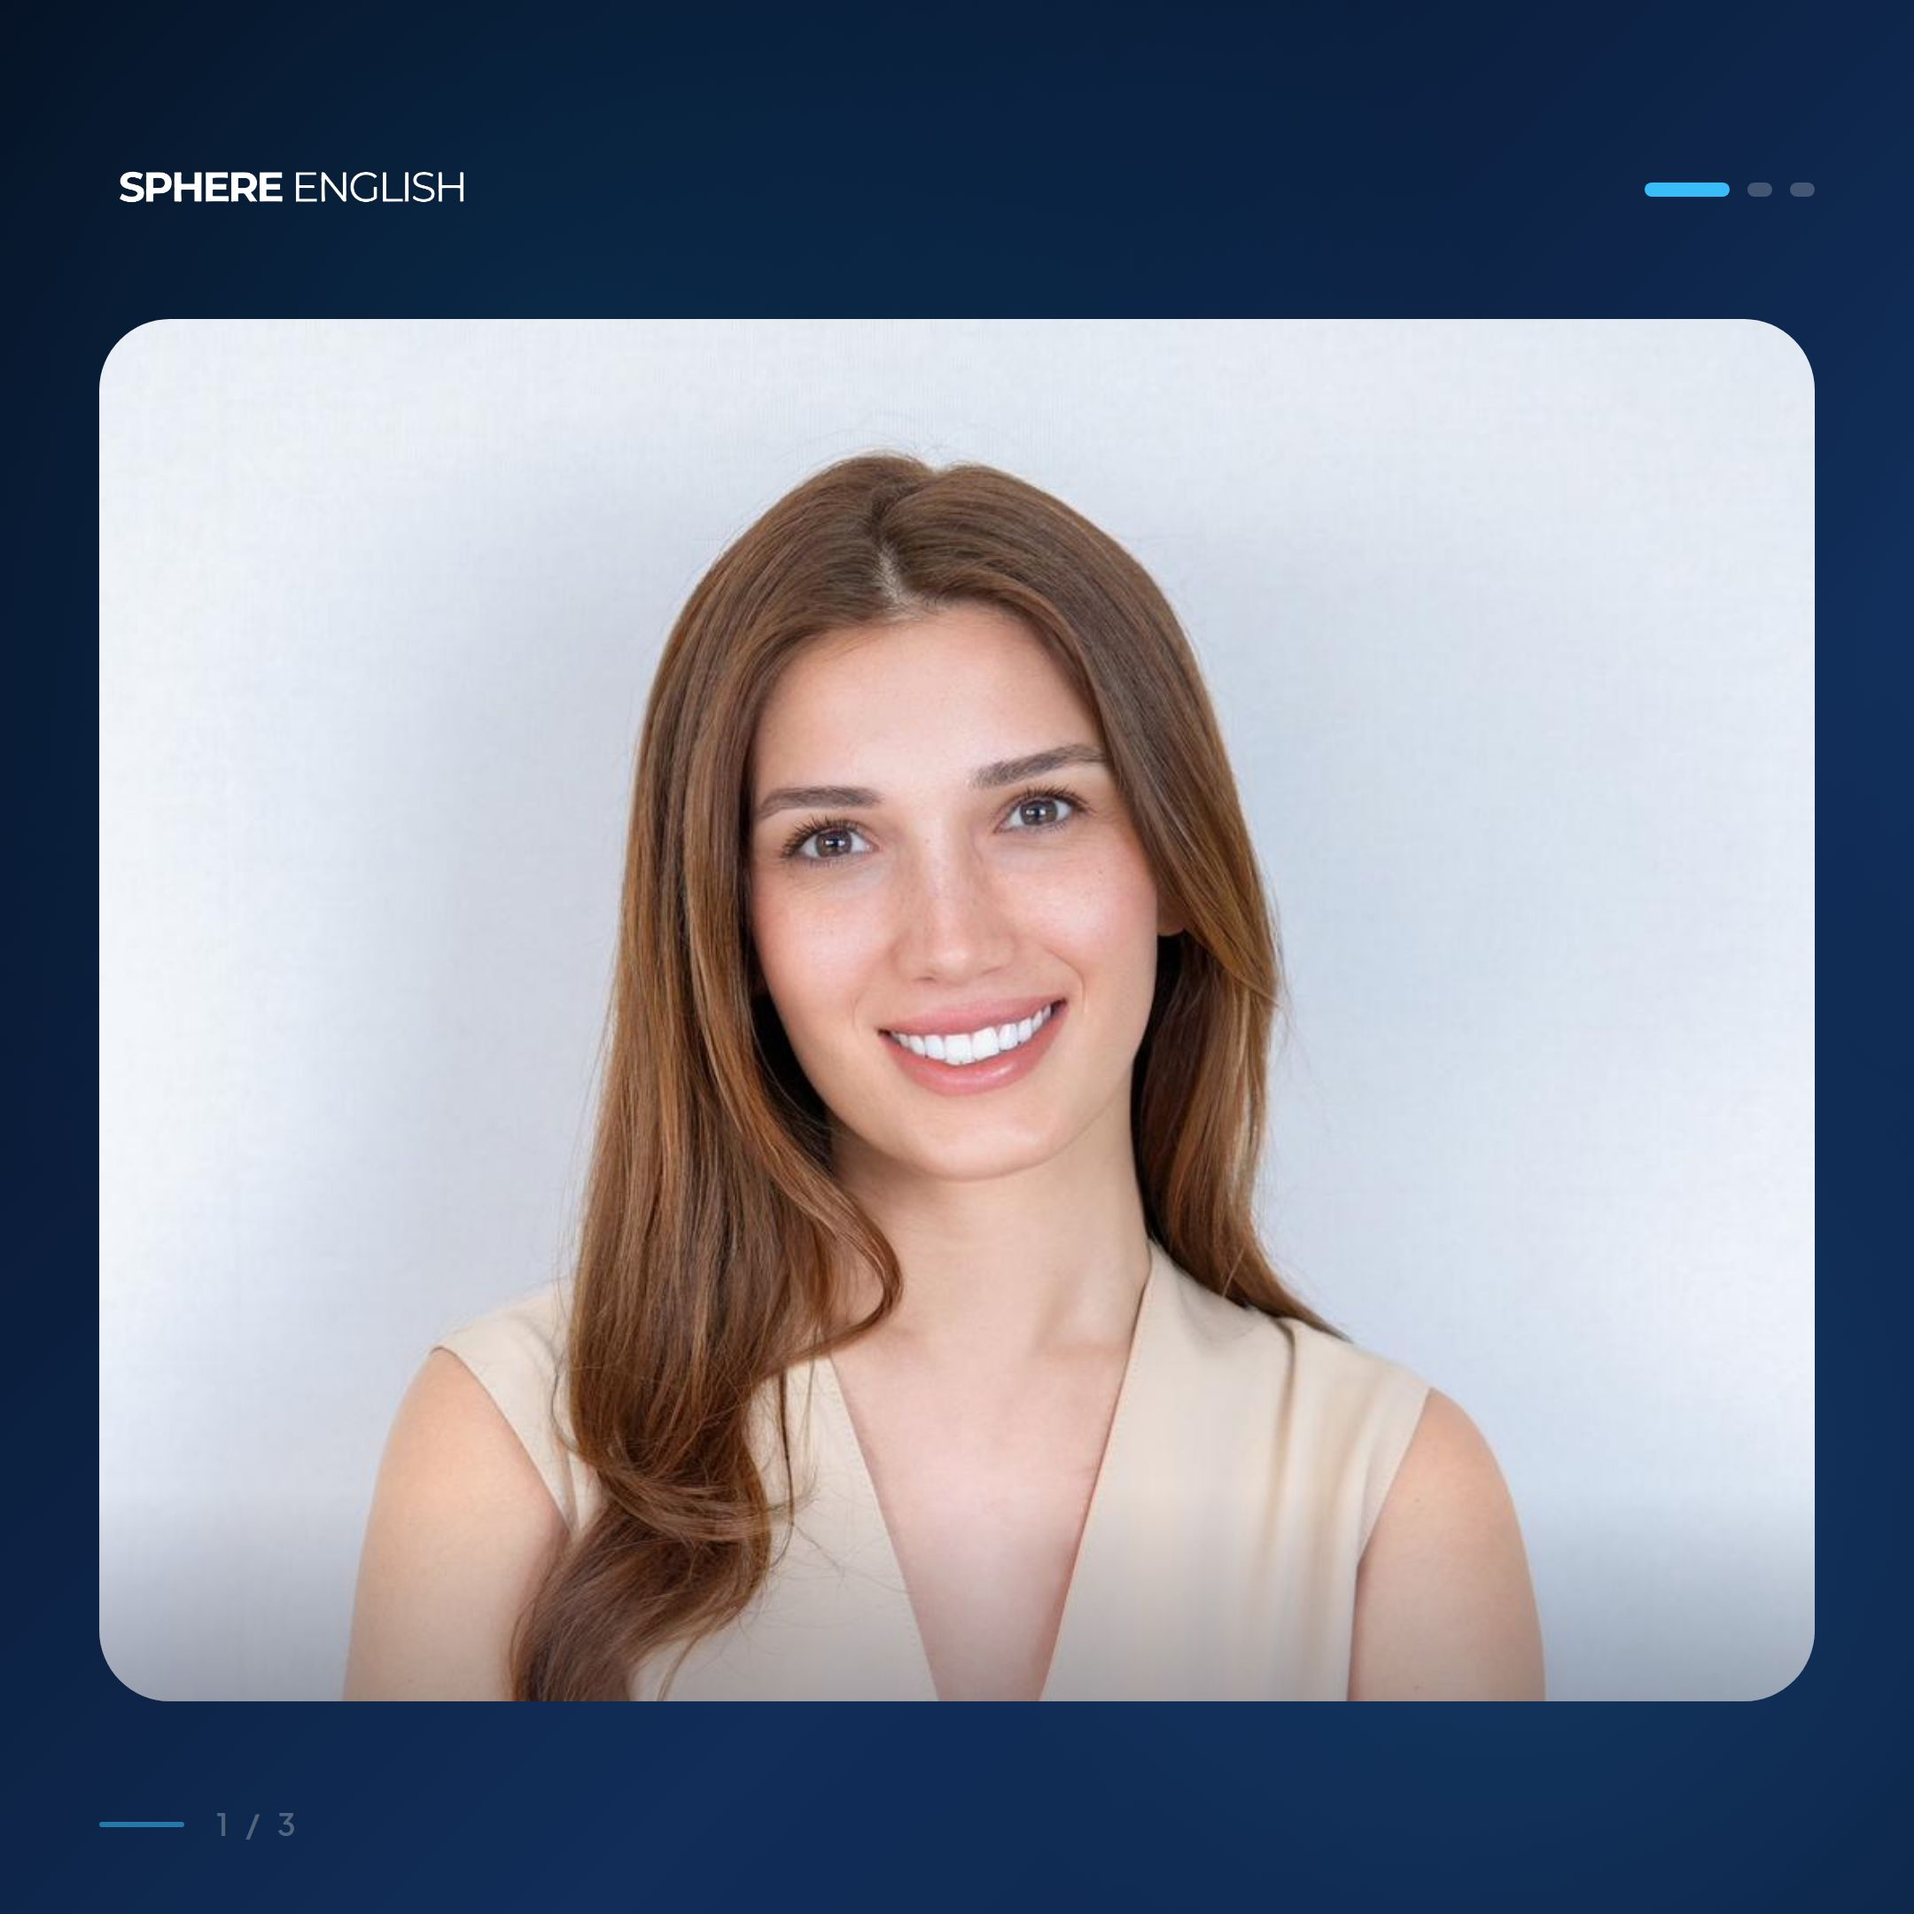
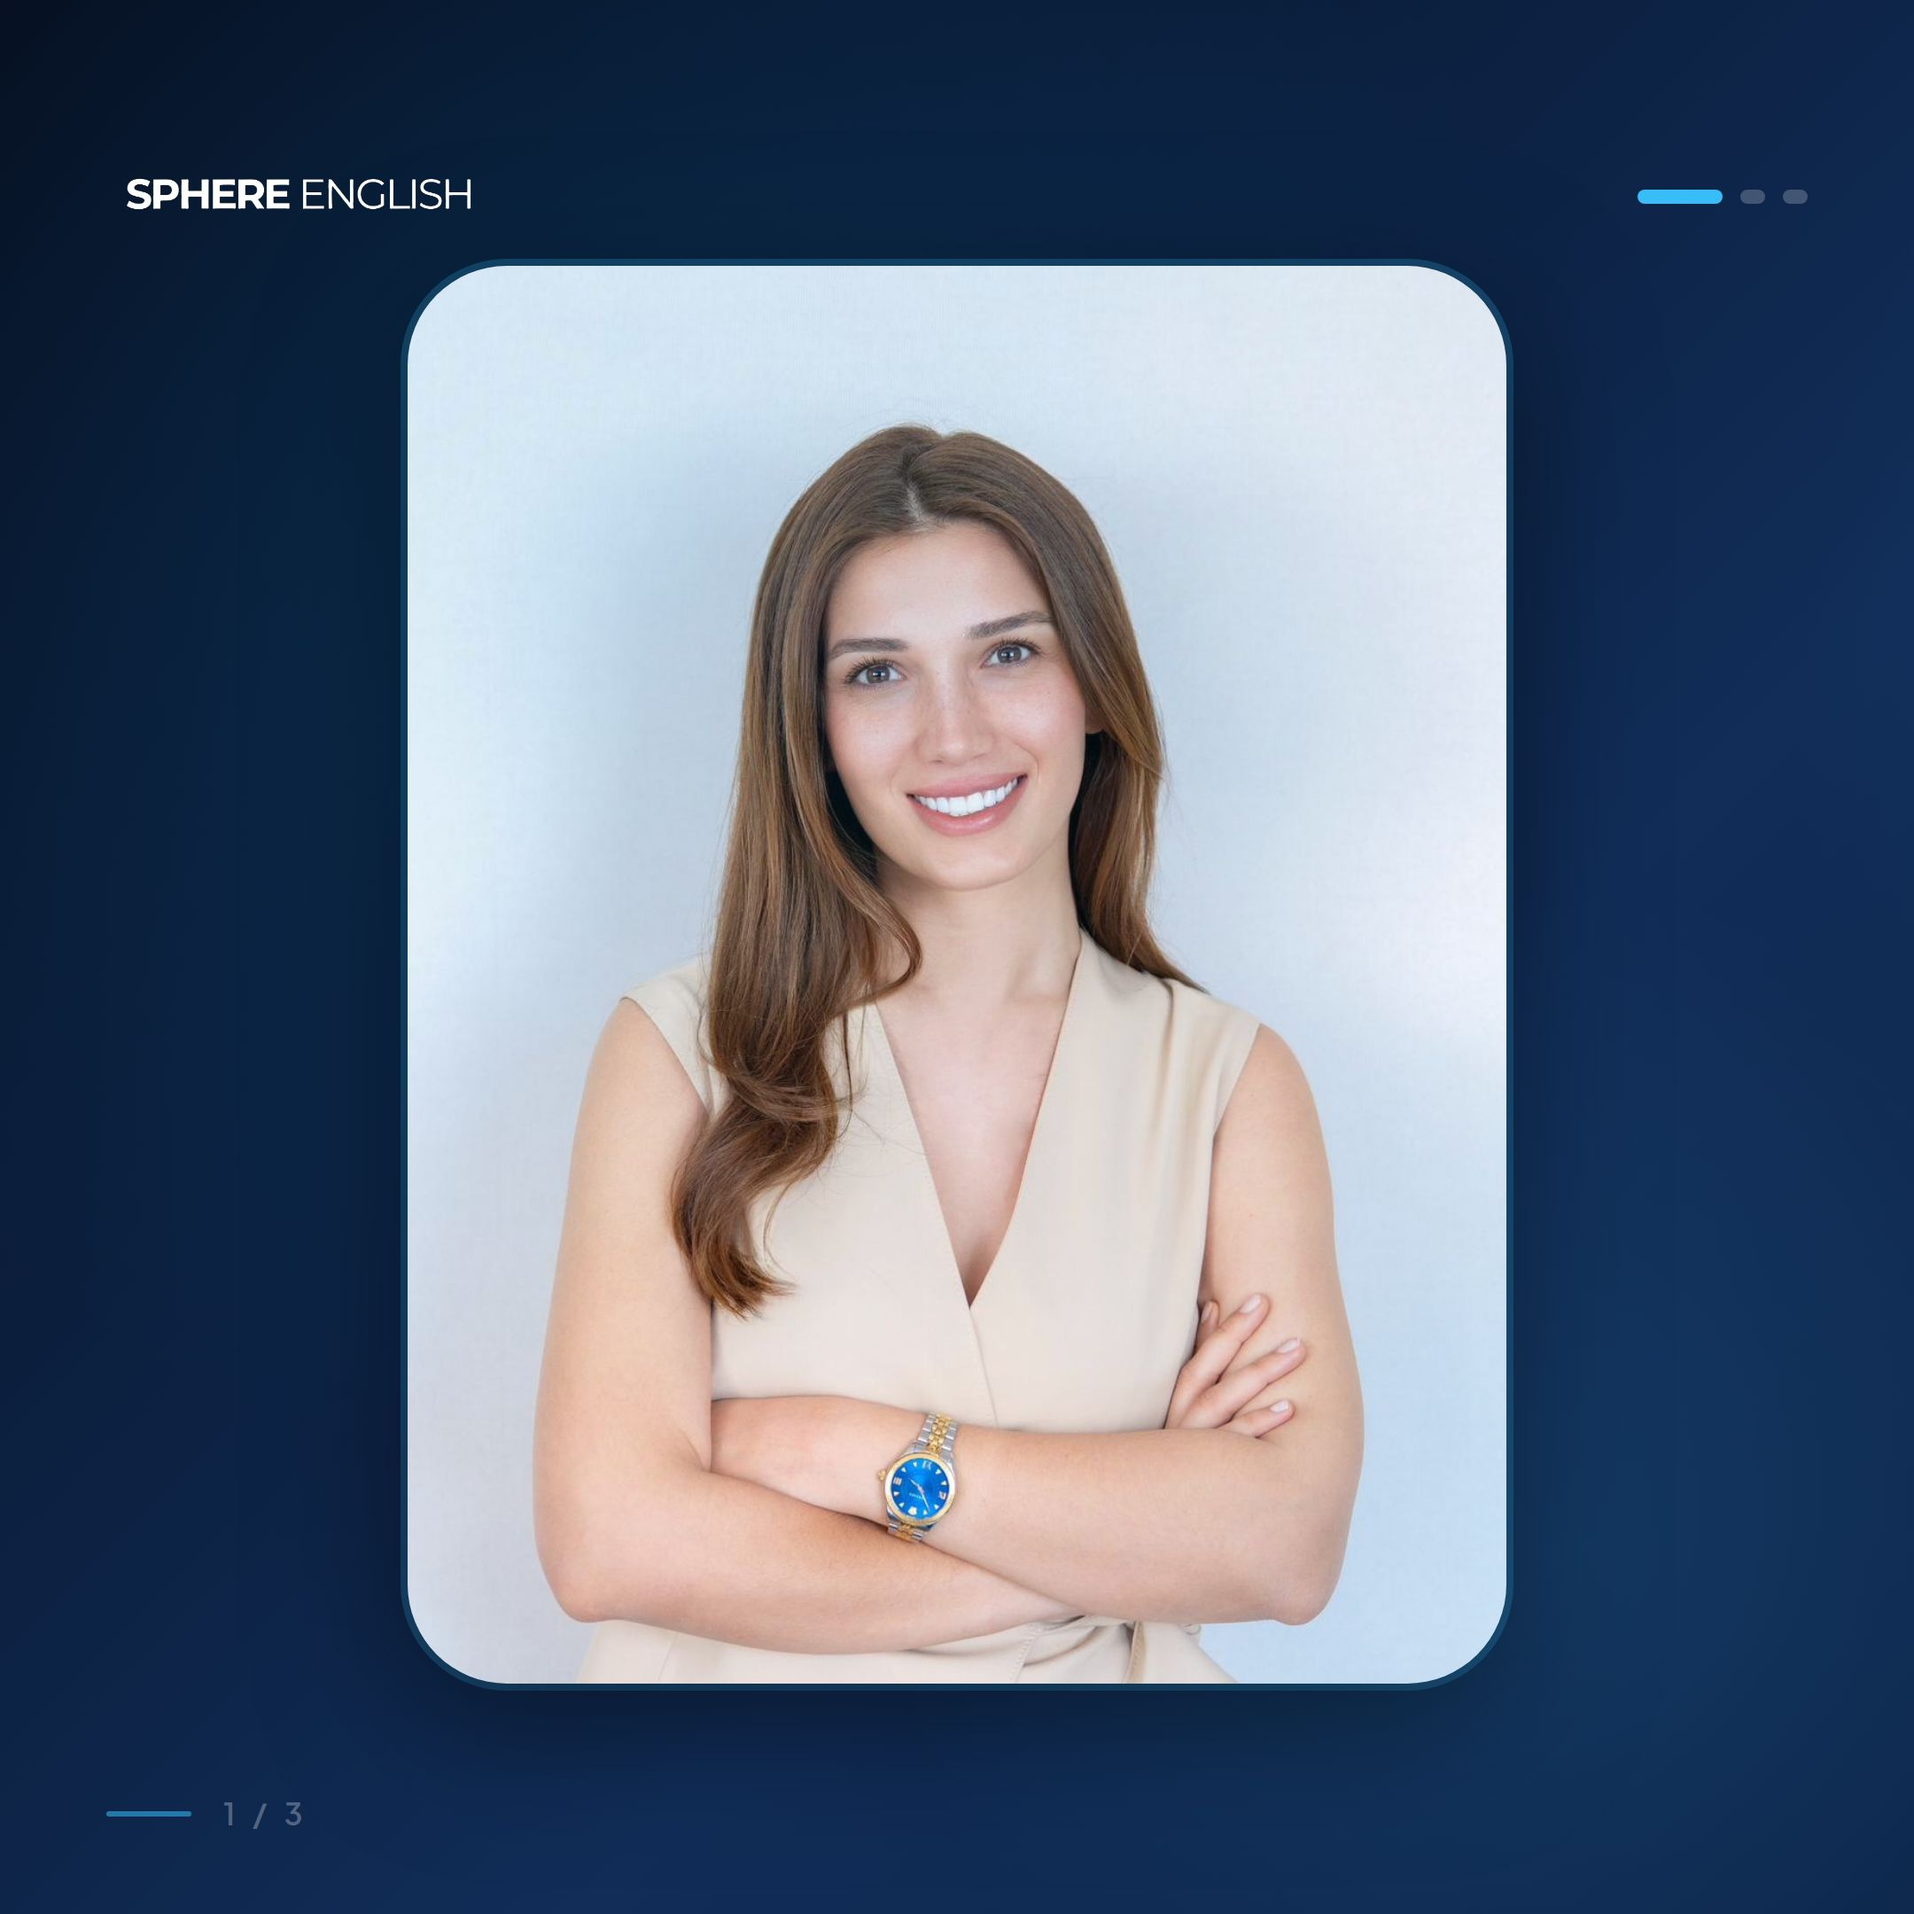
Update image framing to display portraits in rounded vertical frames
Modify the PhotoPanel component to use a portrait aspect ratio with rounded corners and object-fit cover for image display.

Replit-Commit-Author: Agent
Replit-Commit-Session-Id: 7828208e-226c-43ef-9a3e-875997ce7956
Replit-Commit-Checkpoint-Type: full_checkpoint
Replit-Commit-Event-Id: 37176d0c-0727-4ea3-82cc-8dd7bf4da281
Replit-Commit-Screenshot-Url: https://storage.googleapis.com/screenshot-production-us-central1/f780e6cf-cd3b-477f-8b05-3e4b163e7069/7828208e-226c-43ef-9a3e-875997ce7956/cZ8Hnck
Replit-Helium-Checkpoint-Created: true

diff --git a/artifacts/mockup-sandbox/src/components/mockups/instagram-post/FoundersPost.tsx b/artifacts/mockup-sandbox/src/components/mockups/instagram-post/FoundersPost.tsx
@@ -47,30 +47,37 @@ const Avatar = ({ letter, color }: { letter: string; color: string }) => (
 
 /* ── Photo card panel (for Didem & Merve) ── */
 const PhotoPanel = ({ src, alt, dots }: { src: string; alt: string; dots: number }) => {
-  const PADX = px(56);
-  const PADY = px(52);
+  const PADX = px(60);
+  const PADY = px(56);
+
+  /* Portrait card boyutu: dikey, oval köşeli */
+  const CARD_W = px(620);
+  const CARD_H = px(800);
+
   return (
     <div style={{
       width:px(W), height:px(W), flexShrink:0,
       background: BG,
       position:"relative",
       overflow:"hidden",
+      display:"flex",
+      flexDirection:"column",
+      alignItems:"center",
+      justifyContent:"center",
     }}>
       {/* Dekoratif orbs */}
-      <div style={{ position:"absolute", width:px(1400), height:px(1400), borderRadius:"50%", background:"radial-gradient(circle, rgba(14,165,233,0.11) 0%, transparent 55%)", left:px(-400), top:px(-500), pointerEvents:"none", zIndex:0 }} />
-      <div style={{ position:"absolute", width:px(800), height:px(800), borderRadius:"50%", background:"radial-gradient(circle, rgba(56,189,248,0.09) 0%, transparent 60%)", right:px(-200), bottom:px(-200), pointerEvents:"none", zIndex:0 }} />
+      <div style={{ position:"absolute", width:px(1400), height:px(1400), borderRadius:"50%", background:"radial-gradient(circle, rgba(14,165,233,0.12) 0%, transparent 55%)", left:px(-350), top:px(-400), pointerEvents:"none" }} />
+      <div style={{ position:"absolute", width:px(900), height:px(900), borderRadius:"50%", background:"radial-gradient(circle, rgba(56,189,248,0.10) 0%, transparent 60%)", right:px(-250), bottom:px(-250), pointerEvents:"none" }} />
 
-      {/* Fotoğraf kartı — panel'i neredeyse tamamen dolduruyor */}
+      {/* Dikey portre çerçevesi — ortada */}
       <div style={{
-        position:"absolute",
-        top: px(180),
-        left: PADX,
-        right: PADX,
-        bottom: px(120),
-        borderRadius: px(40),
+        width: CARD_W,
+        height: CARD_H,
+        borderRadius: px(56),
         overflow: "hidden",
-        boxShadow: "0 12px 80px rgba(0,0,0,0.55), 0 0 0 px(3) rgba(56,189,248,0.22)",
-        zIndex: 1,
+        boxShadow: `0 ${px(20)}px ${px(80)}px rgba(0,0,0,0.50), 0 0 0 ${px(4)}px rgba(56,189,248,0.25)`,
+        flexShrink: 0,
+        marginTop: px(20),
       }}>
         <img
           src={src}
@@ -79,19 +86,16 @@ const PhotoPanel = ({ src, alt, dots }: { src: string; alt: string; dots: number
             width: "100%",
             height: "100%",
             objectFit: "cover",
-            objectPosition: "center 12%",
+            objectPosition: "center 8%",
             display: "block",
           }}
         />
-        {/* Alt soft gradient fade */}
-        <div style={{ position:"absolute", bottom:0, left:0, right:0, height:px(120), background:"linear-gradient(to top, rgba(6,13,30,0.30) 0%, transparent 100%)", pointerEvents:"none" }} />
       </div>
 
-      {/* Logo + dots — üst kısım üzerinde */}
+      {/* Logo + dots — üst üste */}
       <div style={{
         position:"absolute", top:PADY, left:PADX, right:PADX,
         display:"flex", justifyContent:"space-between", alignItems:"center",
-        zIndex: 2,
       }}>
         <img src="/images/logo-full.png" alt="Sphere English"
           style={{ height:px(110), width:"auto", filter:"brightness(0) invert(1)", objectFit:"contain", objectPosition:"left" }}
@@ -99,8 +103,8 @@ const PhotoPanel = ({ src, alt, dots }: { src: string; alt: string; dots: number
         <PanelDots current={dots} />
       </div>
 
-      {/* Slide numarası — alt kısım */}
-      <div style={{ position:"absolute", bottom:px(38), left:PADX, zIndex:2 }}>
+      {/* Slide numarası — alt üste */}
+      <div style={{ position:"absolute", bottom:px(44), left:PADX }}>
         <BottomLine n={dots} />
       </div>
     </div>
